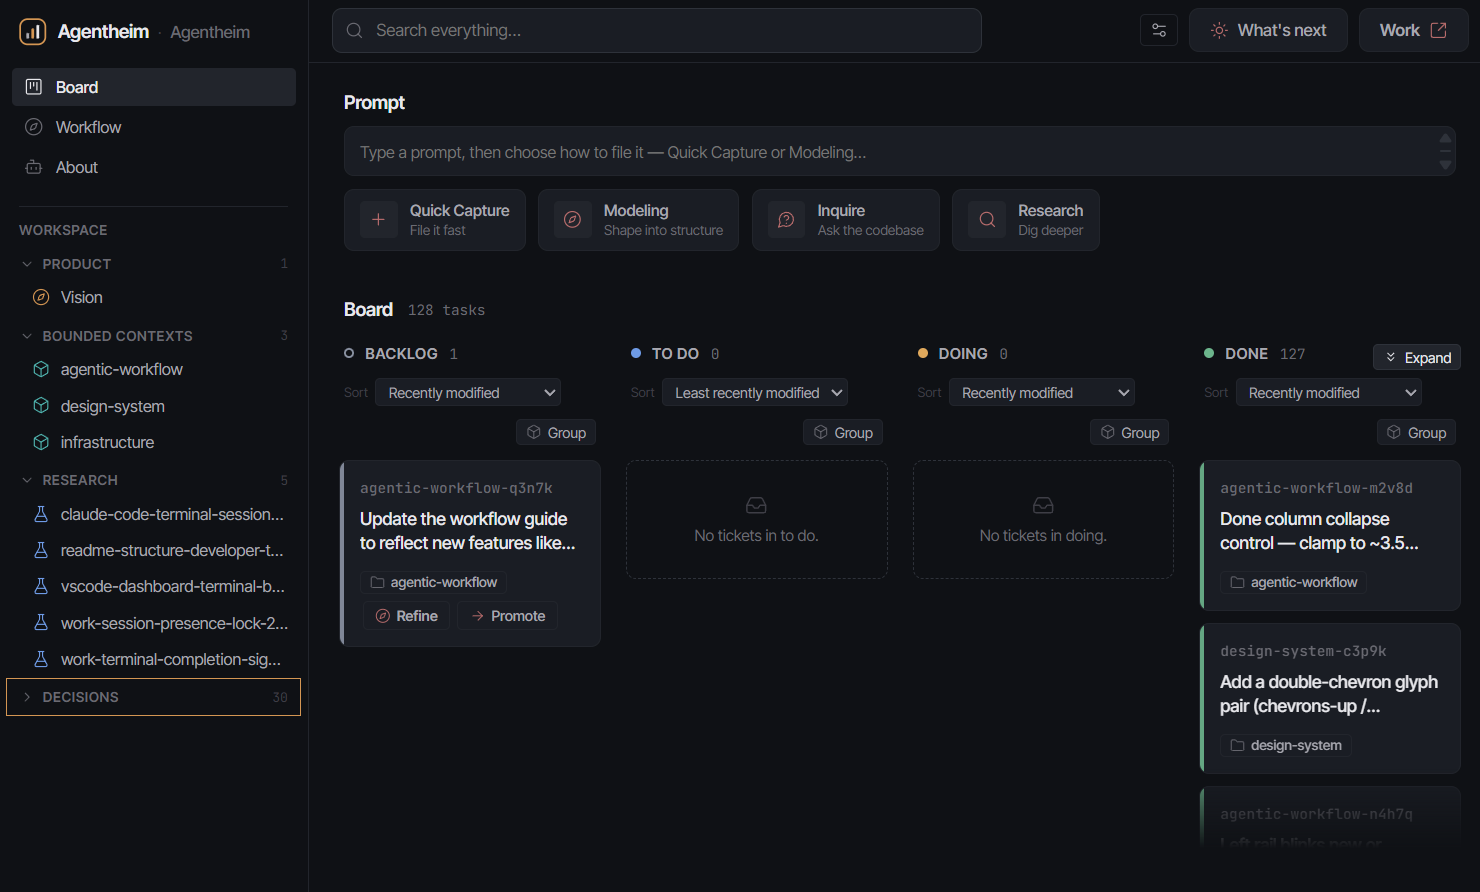
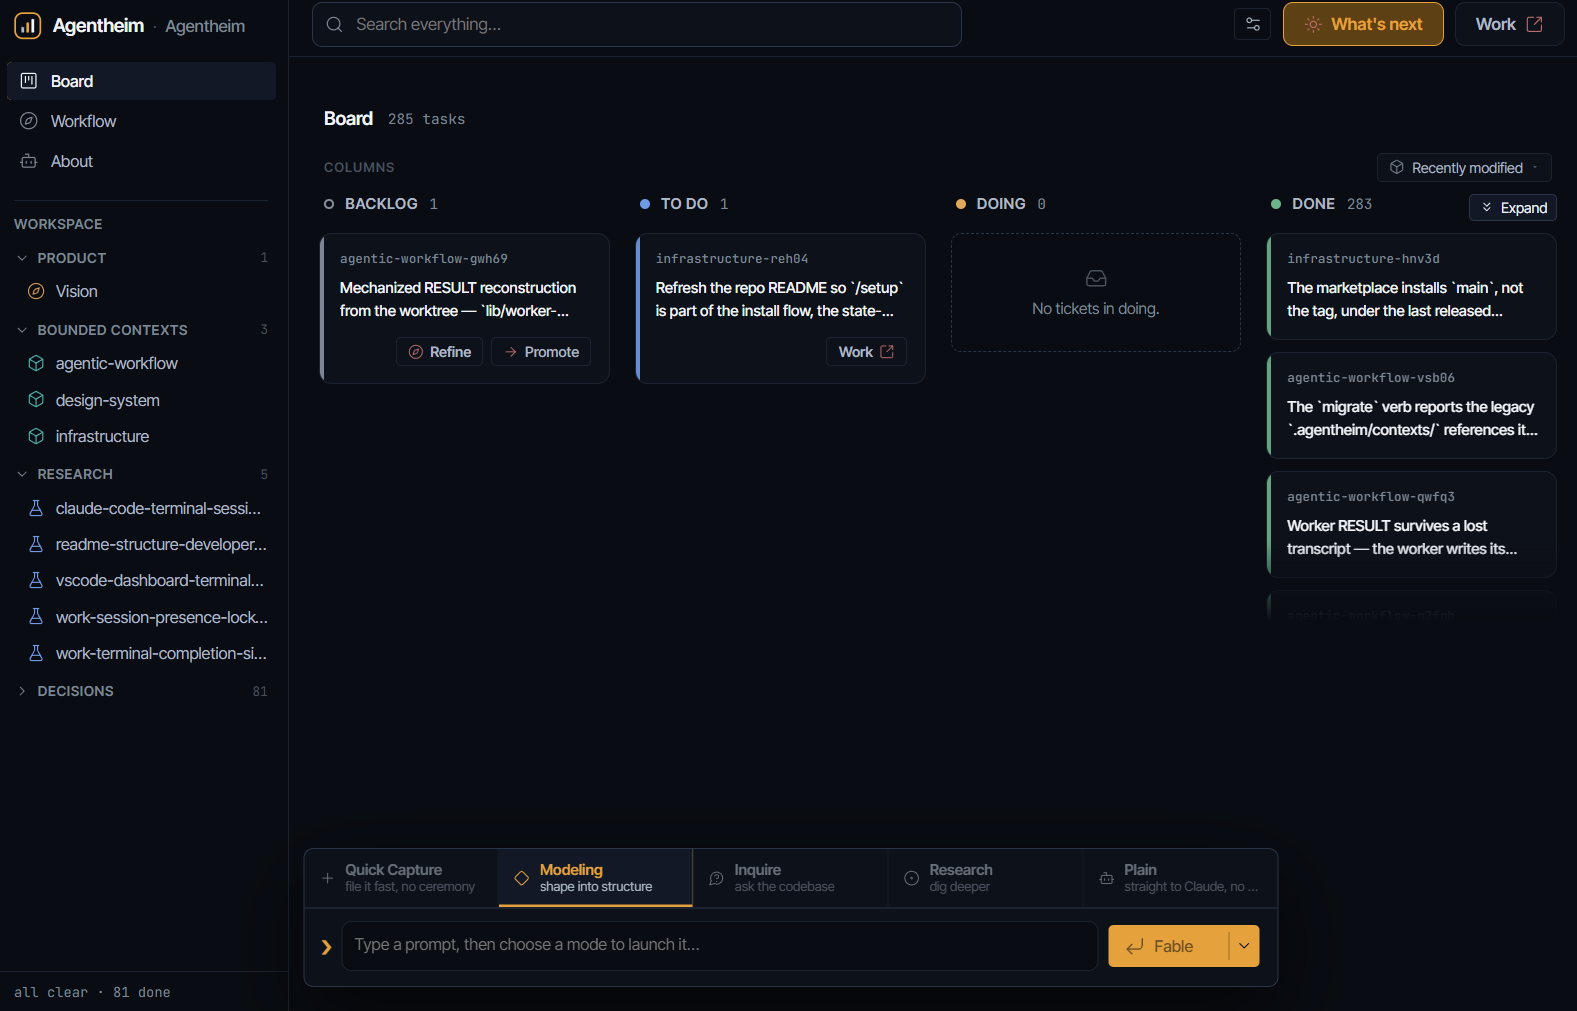
chore(infrastructure): work session end bookkeeping [infrastructure-reh04]
Claude-Session: https://claude.ai/code/session_011KqeNjJX5A7Av6Q23EMYjy

diff --git a/.agentheim/board/protocol.md b/.agentheim/board/protocol.md
@@ -5,6 +5,24 @@ Newest entries on top.
 
 ---
 
+## 2026-09-13 00:49 -- Work session ended
+
+**Type:** Work / Session end
+**Duration:** 13m38s (batch start to session end)
+**Completed:** 1 (first-try PASS: 1, re-dispatched: 0, skipped: 0)
+**Bounced:** 0
+**Failed:** 0
+**Escalated after verification:** 0
+**Lost-result re-dispatches:** 0
+**Lost-result escalations:** 0
+**Dispatches:** infrastructure-reh04: 1
+**Commits:** 2
+**Vision-conformance:** none — batch aligns with vision
+**Batch mix:** 0% product-facing / 100% harness / 0% bookkeeping (1 task) — heuristic reads a type:chore README rewrite as harness; it is a consumer-facing doc refresh
+**Carry-over:** left behind (user WIP, 2 files)
+
+---
+
 ## 2026-09-13 00:48 -- Task verified and completed: infrastructure-reh04 - Refresh the repo README so `/setup` is part of the install flow, the state-layout tree and every quoted path reflect the two-root layout (ADR-0078), and the skills table, repo layout, and status reflect what shipped since the June restructure (0.8.8 → 0.9.4) — concise, no walkthrough
 
 **Type:** Work / Task completion
